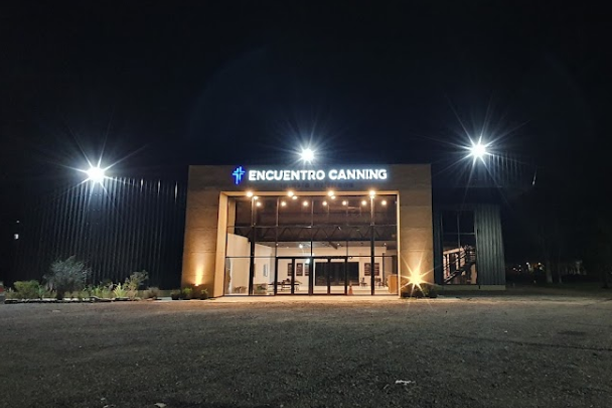
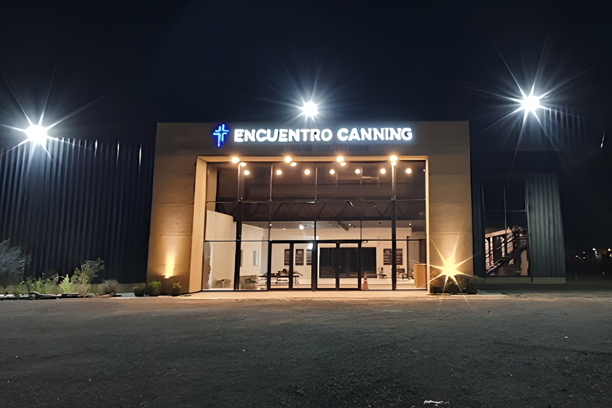
Version con fotos genericas

diff --git a/index.html b/index.html
@@ -34,10 +34,6 @@
             </div>
         </div>
 
-        <h2 class="palabra-principal">
-            Nuestro amor no se mide en tiempo, pero aquí está el marcador.
-        </h2>
-
 
         <h1>
             <img src="img/Logo.png" class="logo-img">
@@ -68,7 +64,7 @@
     
         <!-- Foto principal -->
         <div class="foto-principal">
-            <img src="img/fotoPrincipal5.png" alt="Foto Principal" class="foto-principal-img">
+            <img src="img/fotoPrincipal6.png" alt="Foto Principal" class="foto-principal-img">
         </div>
 
         <div class="frase">
@@ -95,9 +91,9 @@
                         <img src="img/iglesia1.png" alt="Iglesia">
                     </div>
                     <div class="ubicacion-back">
-                        <p>Iglesia Encuentro Canning</p>
-                        <p>Hipocrates 3320, Canning </p>
-                        <a href="https://www.google.com/maps/place/Iglesia+Encuentro+Canning/@-34.8834516,-58.5120695,17z/data=!4m6!3m5!1s0x95bcd76848809fd5:0xa4dcb81c015f76f2!8m2!3d-34.8837431!4d-58.5118522!16s%2Fg%2F11jz6tncjs?entry=ttu&g_ep=EgoyMDI1MDEwMi4wIKXMDSoASAFQAw%3D%3D" target="_blank" class="btn-maps">Ver en Google Maps</a>
+                        <p>Iglesia La Providencia </p>
+                        <p>San Justo 320, Buenos Aires </p>
+                        <a href="https://www.google.com.ar/maps/preview" target="_blank" class="btn-maps">Ver en Google Maps</a>
                     </div>
                 </div>
             </div>
@@ -107,11 +103,11 @@
                 <div class="ubicacion-card">
                     <div class="ubicacion-inner">
                         <div class="ubicacion-front">
-                            <img src="img/salon.png" alt="Salón de Fiesta">
+                            <img src="img/salon1.png" alt="Salón de Fiesta">
                         </div>
                         <div class="ubicacion-back">
-                            <p>Talcahuano 2135 y Colectora <br> Paso del Rey </p>
-                            <a href="https://www.google.com/maps/place/CRC,+Talcahuano+2135,+B1742+Paso+del+Rey,+Provincia+de+Buenos+Aires/@-34.6325463,-58.7578243,15z/data=!4m16!1m9!3m8!1s0x95bc9596537d14d7:0x22a54f78d70693bf!2sCRC,+Talcahuano+2135,+B1742+Paso+del+Rey,+Provincia+de+Buenos+Aires!3b1!8m2!3d-34.6324297!4d-58.757731!10e5!16s%2Fg%2F11c2122g81!3m5!1s0x95bc9596537d14d7:0x22a54f78d70693bf!8m2!3d-34.6324297!4d-58.757731!16s%2Fg%2F11c2122g81?entry=ttu&g_ep=EgoyMDI1MDEwMi4wIKXMDSoASAFQAw%3D%3D" target="_blank" class="btn-maps">Ver en Google Maps</a>
+                            <p>Av. Siempre Viva 123 <br> Buenos Aires </p>
+                            <a href="https://www.google.com.ar/maps/preview" target="_blank" class="btn-maps">Ver en Google Maps</a>
                         </div>
                     </div>
                 </div>

diff --git a/script.js b/script.js
@@ -2,7 +2,7 @@
 // Manejo Contador 
 // Manejo Contador 
 document.addEventListener('DOMContentLoaded', function () {
-    const weddingDate = new Date('2025-02-07T20:00:00'); 
+    const weddingDate = new Date('2025-07-07T20:00:00'); 
     const labels = {
         full: { days: "Días", hours: "Horas", minutes: "Minutos", seconds: "Segundos" },
         short: { days: "Días", hours: "Hrs", minutes: "Min", seconds: "Seg" }
@@ -111,7 +111,7 @@ document.addEventListener("DOMContentLoaded", function () {
         }
     });
 
- 
+ /*
   if (navigator.userAgent.match(/samsung/i)) {
     document.addEventListener("DOMContentLoaded", function() {
       const warningBanner = document.createElement("div");
@@ -133,7 +133,16 @@ document.addEventListener("DOMContentLoaded", function () {
       `;
       document.body.appendChild(warningBanner);
     });
-  }
+  }*/
+
+    if (navigator.userAgent.match(/samsung/i)) {
+        document.addEventListener("DOMContentLoaded", function() {
+            document.body.style.background = "linear-gradient(100deg, #e5e8e8 0%, #f5cba7 100%)";
+            document.body.style.color = "#333";
+        });
+    }
+    
+
 
 // Detectar los parámetros de la URL
 const params = new URLSearchParams(window.location.search);

diff --git a/styles.css b/styles.css
@@ -50,7 +50,7 @@ h2 {
 
 .palabra-principal {
     font-family: "Merriweather", serif;
-    color: #e5e8e8;
+    color: #fff;
     font-size: 1.5em;
     margin-top: 40px;
     padding-bottom: 40px;
@@ -58,7 +58,7 @@ h2 {
 
 .palabra {
     font-family: "Merriweather", serif;
-    color: #e5e8e8;
+    color: #fff;
     font-size: 1.5em;
 }
 
@@ -524,3 +524,11 @@ h2 {
         font-size: 0.8em;
     }
 }
+
+@media (prefers-color-scheme: dark) {
+    body {
+        background: linear-gradient(100deg, #e5e8e8 0%, #f5cba7 100%) !important;
+        color: #333 !important;
+    }
+}
+
